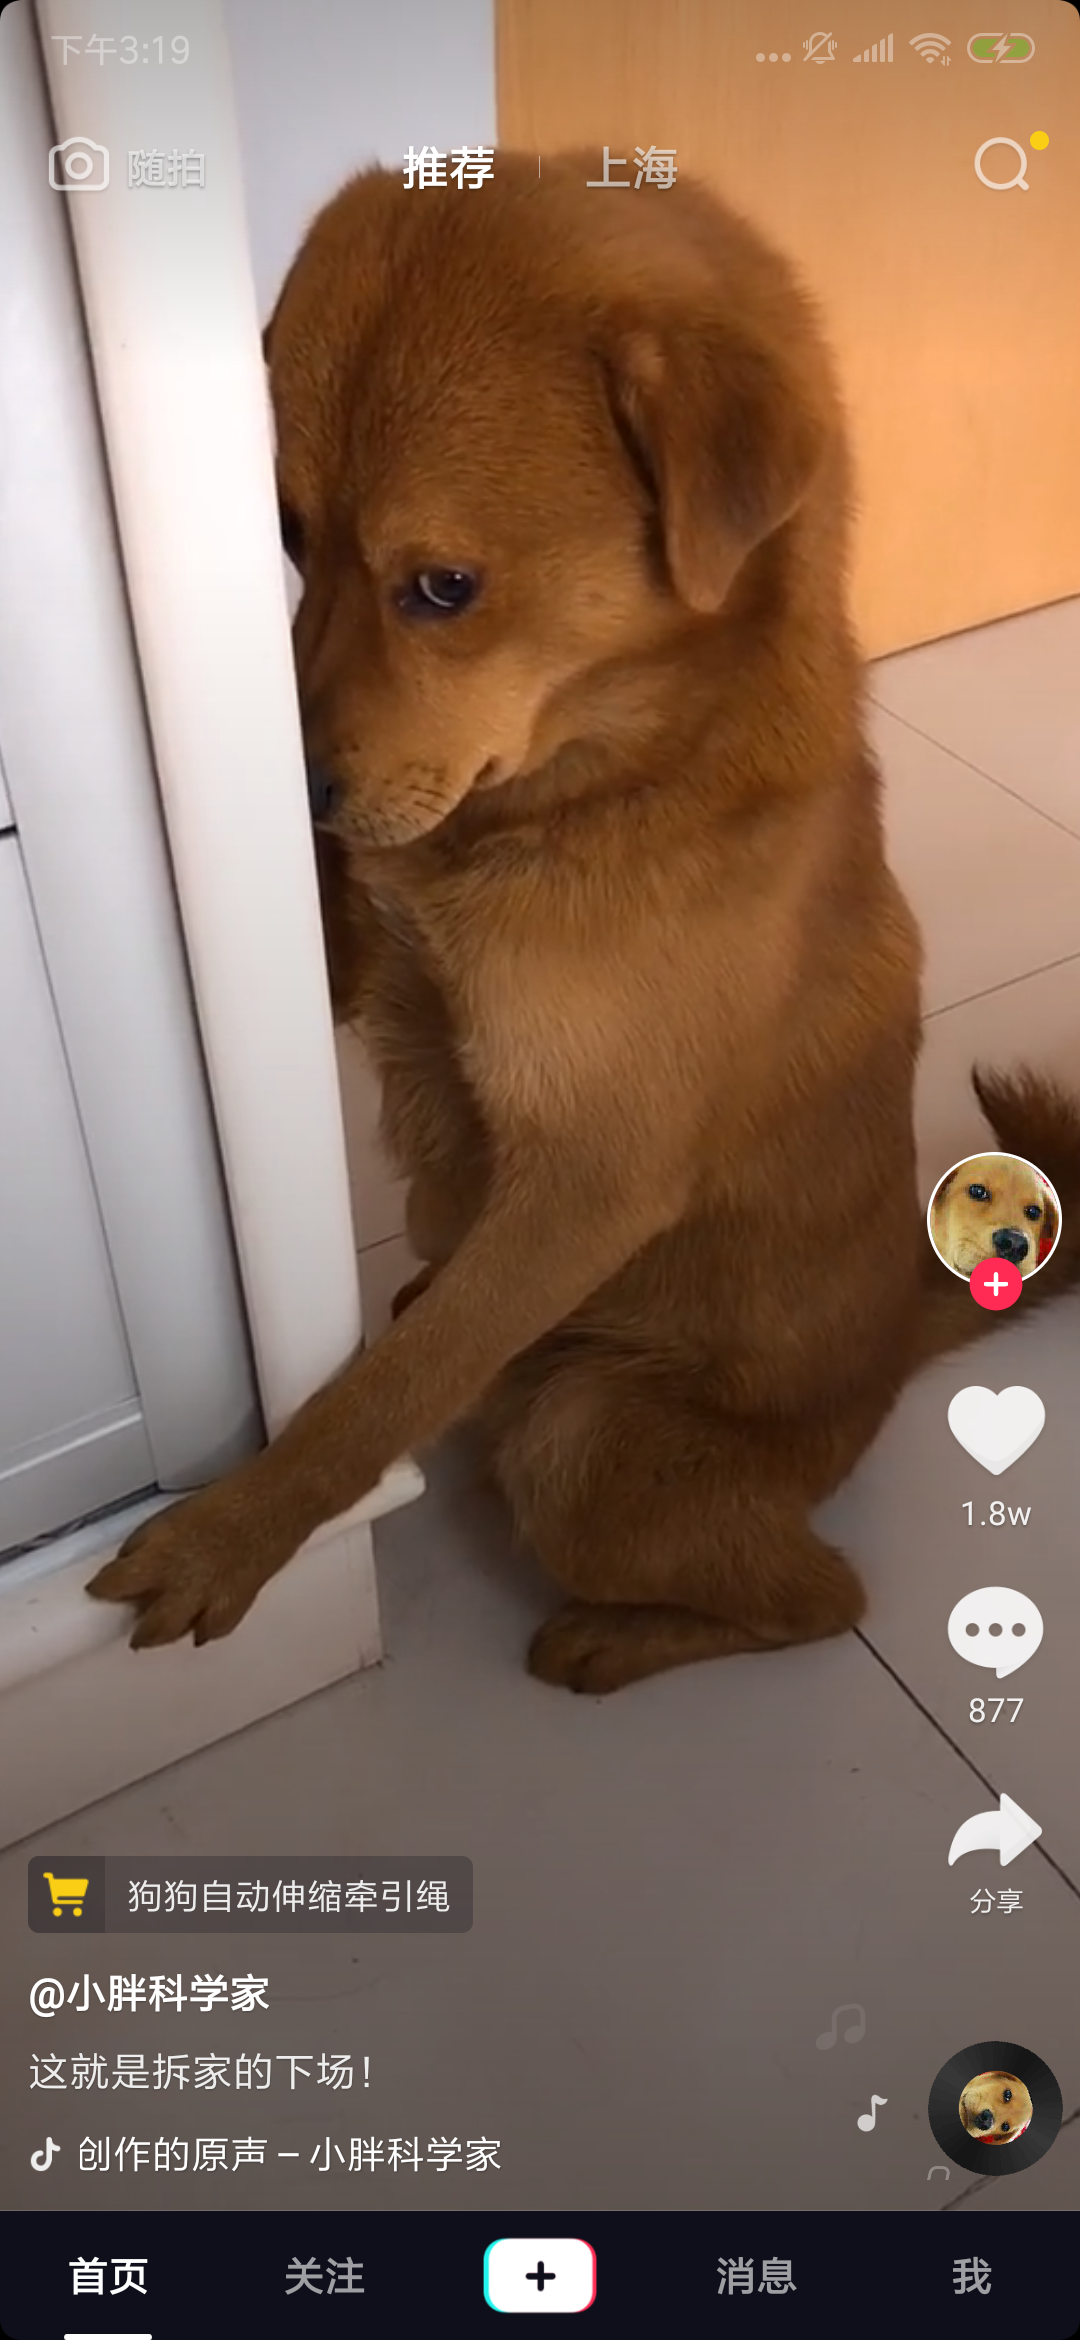
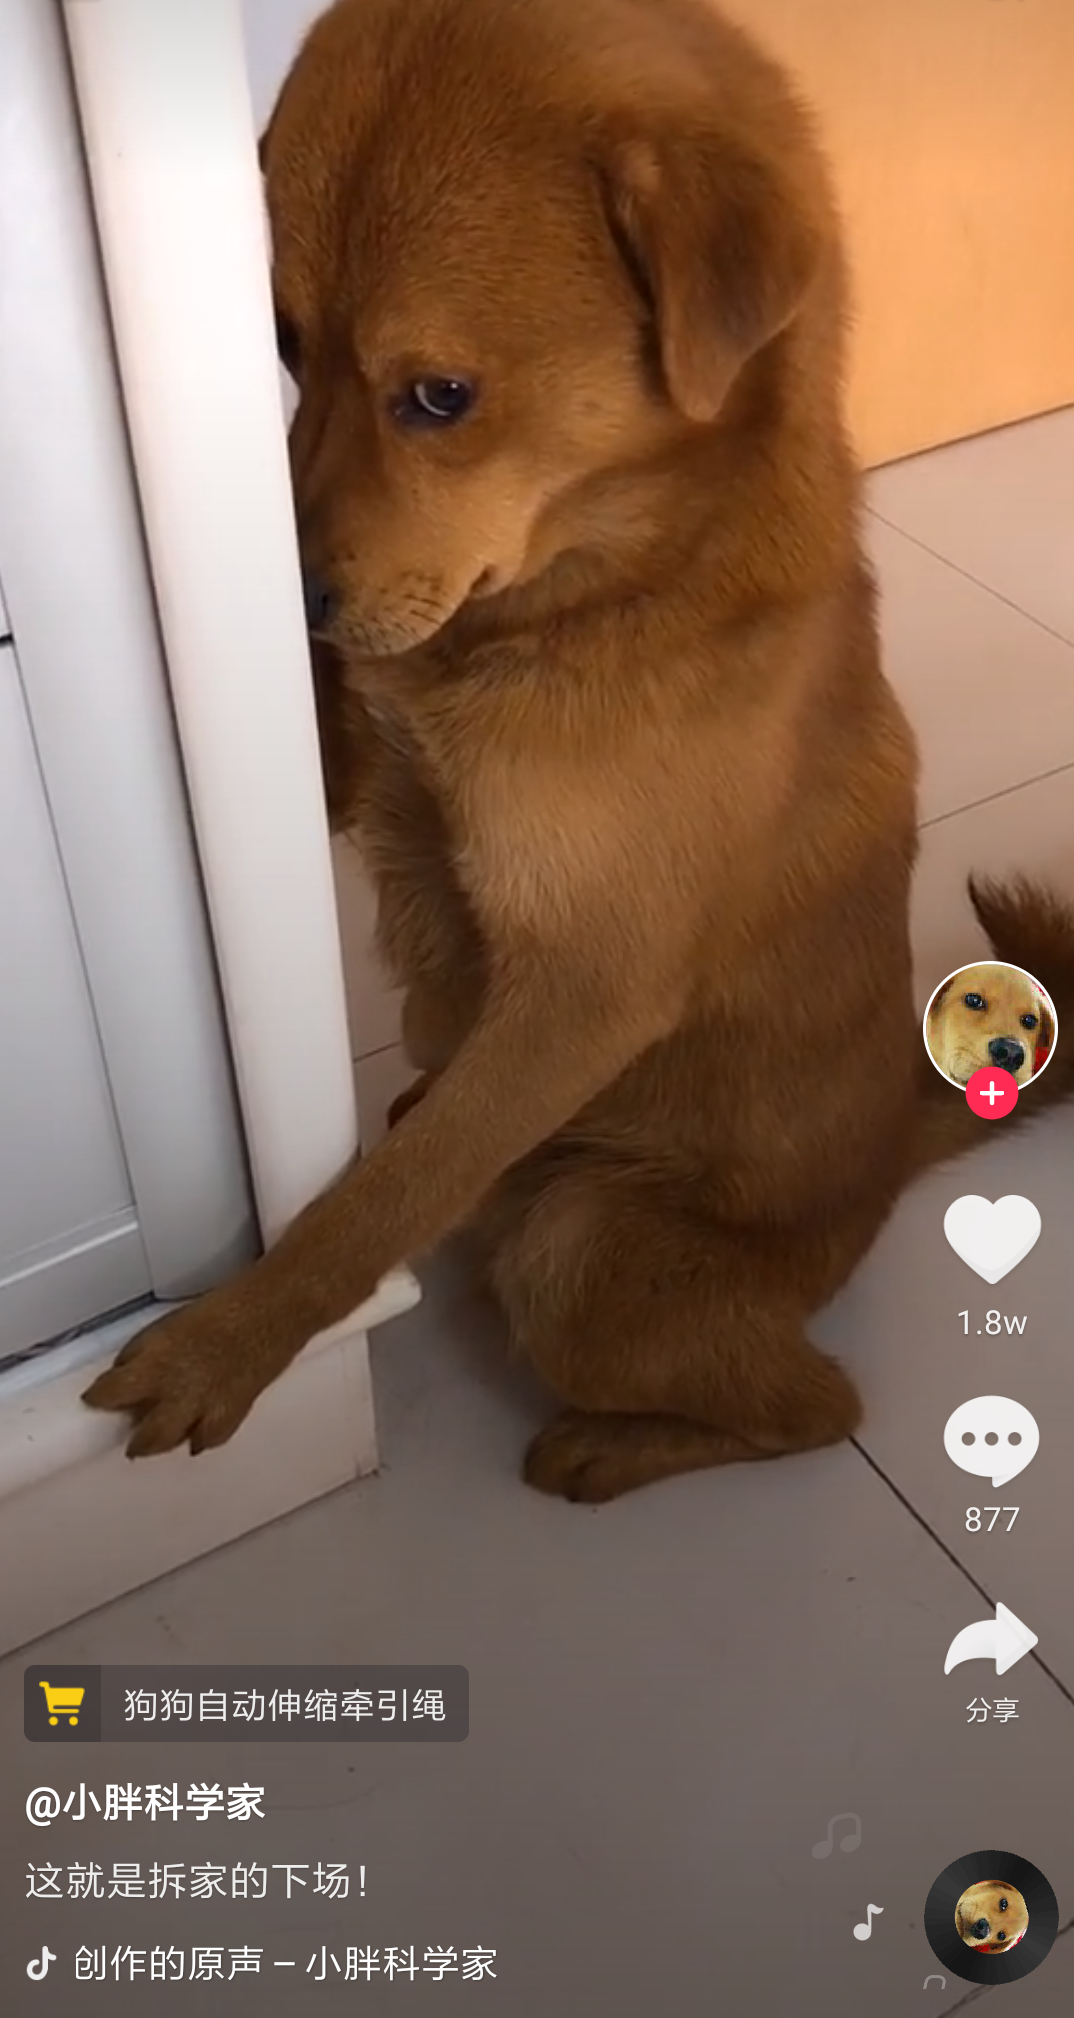
feat-首页下拉刷新交互

diff --git a/lib/tiktok_page.dart b/lib/tiktok_page.dart
@@ -1,9 +1,10 @@
 import 'dart:math';
 
+import 'package:flutter/cupertino.dart';
 import 'package:flutter/material.dart';
 import 'package:flutter/services.dart';
 import 'package:tiktok_gestures/detail_page.dart';
-import 'package:flutter/cupertino.dart';
+import 'package:vibrate/vibrate.dart';
 
 /// 首页
 ///
@@ -16,10 +17,16 @@ class TikTokPage extends StatefulWidget {
 }
 
 class _TikTokState extends State<TikTokPage> with TickerProviderStateMixin {
-
-  AnimationController animationController;
-  Animation<double> animation;
+  AnimationController animationControllerX;
+  AnimationController animationControllerY;
+  Animation<double> animationX;
+  Animation<double> animationY;
   double offsetX = 0.0;
+  double offsetY = 0.0;
+  int currentIndex = 0;
+  bool inMiddle = true;
+
+
 
   @override
   Widget build(BuildContext context) {
@@ -30,6 +37,34 @@ class _TikTokState extends State<TikTokPage> with TickerProviderStateMixin {
     return Material(
       child: Scaffold(
         body: GestureDetector(
+          onVerticalDragUpdate: inMiddle
+              ? (details) {
+                  final tempY = offsetY + details.delta.dy / 2;
+                  if (currentIndex == 0) {
+                    if (tempY > 0) {
+                      if (tempY < 40) {
+                        setState(() {
+                          offsetY = tempY;
+                        });
+                      } else if (offsetY != 40) {
+                        setState(() {
+                          setState(() {
+                            offsetY = 40;
+                          });
+                        });
+                        vibrate();
+                      }
+                    }
+                  } else {
+                    offsetY = 0;
+                  }
+                }
+              : null,
+          onVerticalDragEnd: (_) {
+            if (offsetY != 0) {
+              animateToTop();
+            }
+          },
           onHorizontalDragEnd: (details) {
             // 当滑动停止的时候 根据 offsetX 的偏移量进行动画
             // 为了方便这里取 screenWidth / 2为临界条件
@@ -42,7 +77,7 @@ class _TikTokState extends State<TikTokPage> with TickerProviderStateMixin {
             }
           },
           onHorizontalDragStart: (_) {
-            animationController?.stop();
+            animationControllerX?.stop();
           },
           onHorizontalDragUpdate: (details) {
             // 控制 offsetX 的值在 -screenWidth 到 screenWidth 之间
@@ -88,8 +123,8 @@ class _TikTokState extends State<TikTokPage> with TickerProviderStateMixin {
           fit: BoxFit.fill,
         ),
         foregroundDecoration: BoxDecoration(
-            color: Color.fromRGBO(0, 0, 0, 1 - (offsetX / screenWidth)),
-           ),
+          color: Color.fromRGBO(0, 0, 0, 1 - (offsetX / screenWidth)),
+        ),
       ),
     );
   }
@@ -100,19 +135,107 @@ class _TikTokState extends State<TikTokPage> with TickerProviderStateMixin {
   /// 水平偏移量为 [ offsetX] /5 产生视差效果
   Transform buildMiddlePage() {
     return Transform.translate(
-                offset: Offset(offsetX > 0 ? offsetX : offsetX / 5, 0),
-                child: PageView(
-                  children: List(10)
-                      .map((_) => Container(
-                            child: Image.asset(
-                              "assets/middle.png",
-                              fit: BoxFit.fill,
-                            ),
-                          ))
-                      .toList(),
-                  scrollDirection: Axis.vertical,
+      offset: Offset(offsetX > 0 ? offsetX : offsetX / 5, 0),
+      child: Stack(
+        children: <Widget>[
+          Container(
+            child: Column(
+              verticalDirection: VerticalDirection.down,
+              children: <Widget>[
+                Expanded(
+                  child: Image.asset(
+                    "assets/middle.png",
+                    fit: BoxFit.fill,
+                  ),
                 ),
-              );
+                Image.asset(
+                  "assets/bottom.png",
+                  fit: BoxFit.fill,
+                ),
+              ],
+            ),
+          ),
+          Padding(
+            padding: const EdgeInsets.only(top: 24),
+            child: buildHeader(),
+          )
+        ],
+      ),
+    );
+  }
+
+  Widget buildHeader() {
+    if (offsetY >= 20) {
+      return Opacity(
+        opacity: (offsetY - 20) / 20,
+        child: Transform.translate(
+          offset: Offset(0, offsetY),
+          child: Container(
+            height: 44,
+            child: Center(
+              child: const Text(
+                "下拉刷新内容",
+                style: TextStyle(color: Colors.white, fontSize: 18),
+              ),
+            ),
+          ),
+        ),
+      );
+    } else {
+      return Opacity(
+        opacity: max(0, 1 - offsetY / 20),
+        child: Transform.translate(
+          offset: Offset(0, offsetY),
+          child: DefaultTextStyle(
+            style: TextStyle(fontSize: 18, color: Colors.grey),
+            child: Container(
+              height: 44,
+              child: Row(
+                children: <Widget>[
+                  Padding(
+                    padding: const EdgeInsets.fromLTRB(24, 0, 5, 0),
+                    child: Icon(
+                      Icons.camera_alt,
+                      size: 24,
+                    ),
+                  ),
+                  const Text('随拍'),
+                  Expanded(
+                    child: Row(
+                      mainAxisAlignment: MainAxisAlignment.center,
+                      children: <Widget>[
+                        Text(
+                          "推荐",
+                          style: TextStyle(color: Colors.white),
+                        ),
+                        Container(
+                          margin: const EdgeInsets.symmetric(horizontal: 10),
+                          width: 1,
+                          height: 12,
+                          color: Colors.white24,
+                        ),
+                        Text("上海"),
+                      ],
+                    ),
+                  ),
+                  Icon(
+                    Icons.live_tv,
+                    size: 24,
+                  ),
+                  Padding(
+                    padding: const EdgeInsets.fromLTRB(5, 0, 24, 0),
+                    child: Icon(
+                      Icons.search,
+                      size: 24,
+                    ),
+                  ),
+                ],
+              ),
+            ),
+          ),
+        ),
+      );
+    }
   }
 
   /// 右侧Widget
@@ -120,89 +243,115 @@ class _TikTokState extends State<TikTokPage> with TickerProviderStateMixin {
   /// 通过 [Transform.translate] 根据 [offsetX] 进行偏移
   Transform buildRightPage(double screenWidth, double screenHeight, BuildContext context) {
     return Transform.translate(
-                  offset: Offset(max(0, offsetX + screenWidth), 0),
-                  child: Container(
-                    width: screenWidth,
-                    height: screenHeight,
-                    color: Colors.transparent,
-                    child: Stack(
-                      children: <Widget>[
-                        Image.asset(
-                          "assets/right.png",
+        offset: Offset(max(0, offsetX + screenWidth), 0),
+        child: Container(
+          width: screenWidth,
+          height: screenHeight,
+          color: Colors.transparent,
+          child: Stack(
+            children: <Widget>[
+              Image.asset(
+                "assets/right.png",
+                fit: BoxFit.fill,
+                width: screenWidth,
+              ),
+              Positioned(
+                  bottom: 190,
+                  child: FlatButton(
+                    padding: EdgeInsets.all(0),
+                    onPressed: () {
+                      Navigator.push(context, MaterialPageRoute(builder: (BuildContext context) {
+                        return DetailPage();
+                      }));
+                    },
+                    child: SizedBox(
+                      width: 130,
+                      height: 175,
+                      child: Hero(
+                        tag: "detail",
+                        child: Image.asset(
+                          "assets/detail.png",
                           fit: BoxFit.fill,
-                          width: screenWidth,
                         ),
-                        Positioned(
-                            bottom: 190,
-                            child: FlatButton(
-                              padding: EdgeInsets.all(0),
-                              onPressed: () {
-                                Navigator.push(context, MaterialPageRoute(
-                                    builder: (BuildContext context) {
-                                      return DetailPage();
-                                    })
-                                );
-                              },
-                              child: SizedBox(
-                                width: 130,
-                                height: 175,
-                                child: Hero(
-                                  tag: "detail",
-                                  child: Image.asset(
-                                    "assets/detail.png",
-                                    fit: BoxFit.fill,
-                                  ),
-                                ),
-                              ),
-                            ))
-                      ],
+                      ),
                     ),
-                  ));
+                  ))
+            ],
+          ),
+        ));
   }
 
   /// 滑动到中间
   void animateToMiddle() {
-    animationController = AnimationController(duration: Duration(milliseconds: offsetX.abs() * 1000 ~/ 500), vsync: this);
-    final curve = CurvedAnimation(parent: animationController, curve: Curves.easeOutCubic);
-    animation = Tween(begin: offsetX, end: 0.0).animate(curve)
+    animationControllerX =
+        AnimationController(duration: Duration(milliseconds: offsetX.abs() * 1000 ~/ 500), vsync: this);
+    final curve = CurvedAnimation(parent: animationControllerX, curve: Curves.easeOutCubic);
+    animationX = Tween(begin: offsetX, end: 0.0).animate(curve)
       ..addListener(() {
         setState(() {
-          offsetX = animation.value;
+          offsetX = animationX.value;
         });
       });
-    animationController.forward();
+    inMiddle = true;
+    animationControllerX.forward();
   }
 
   /// 滑动到左边
   void animateToLeft(double screenWidth) {
-    animationController = AnimationController(duration: Duration(milliseconds: offsetX.abs() * 1000 ~/ 500), vsync: this);
-    final curve = CurvedAnimation(parent: animationController, curve: Curves.easeOutCubic);
-    animation = Tween(begin: offsetX, end: screenWidth).animate(curve)
+    animationControllerX =
+        AnimationController(duration: Duration(milliseconds: offsetX.abs() * 1000 ~/ 500), vsync: this);
+    final curve = CurvedAnimation(parent: animationControllerX, curve: Curves.easeOutCubic);
+    animationX = Tween(begin: offsetX, end: screenWidth).animate(curve)
       ..addListener(() {
         setState(() {
-          offsetX = animation.value;
+          offsetX = animationX.value;
         });
       });
-    animationController.forward();
+    inMiddle = false;
+    animationControllerX.forward();
   }
 
   /// 滑动到右边
   void animateToRight(double screenWidth) {
-    animationController = AnimationController(duration: Duration(milliseconds: offsetX.abs() * 1000 ~/ 500), vsync: this);
-    final curve = CurvedAnimation(parent: animationController, curve: Curves.easeOutCubic);
-    animation = Tween(begin: offsetX, end: -screenWidth).animate(curve)
+    animationControllerX =
+        AnimationController(duration: Duration(milliseconds: offsetX.abs() * 1000 ~/ 500), vsync: this);
+    final curve = CurvedAnimation(parent: animationControllerX, curve: Curves.easeOutCubic);
+    animationX = Tween(begin: offsetX, end: -screenWidth).animate(curve)
       ..addListener(() {
         setState(() {
-          offsetX = animation.value;
+          offsetX = animationX.value;
         });
       });
-    animationController.forward();
+    inMiddle = false;
+    animationControllerX.forward();
+  }
+
+  /// 滑动到顶部
+  void animateToTop() {
+    animationControllerY =
+        AnimationController(duration: Duration(milliseconds: offsetY.abs() * 1000 ~/ 40), vsync: this);
+    final curve = CurvedAnimation(parent: animationControllerY, curve: Curves.easeOutCubic);
+    animationY = Tween(begin: offsetY, end: 0.0).animate(curve)
+      ..addListener(() {
+        setState(() {
+          offsetY = animationY.value;
+        });
+      });
+    animationControllerY.forward();
+  }
+
+  vibrate() async {
+    // Check if the device can vibrate
+    bool canVibrate = await Vibrate.canVibrate;
+    if (canVibrate) {
+      Vibrate.feedback(FeedbackType.medium);
+    }
   }
 
   @override
   void dispose() {
-    animationController.dispose();
+    animationControllerX.dispose();
+    animationControllerY.dispose();
     super.dispose();
   }
-
 }
